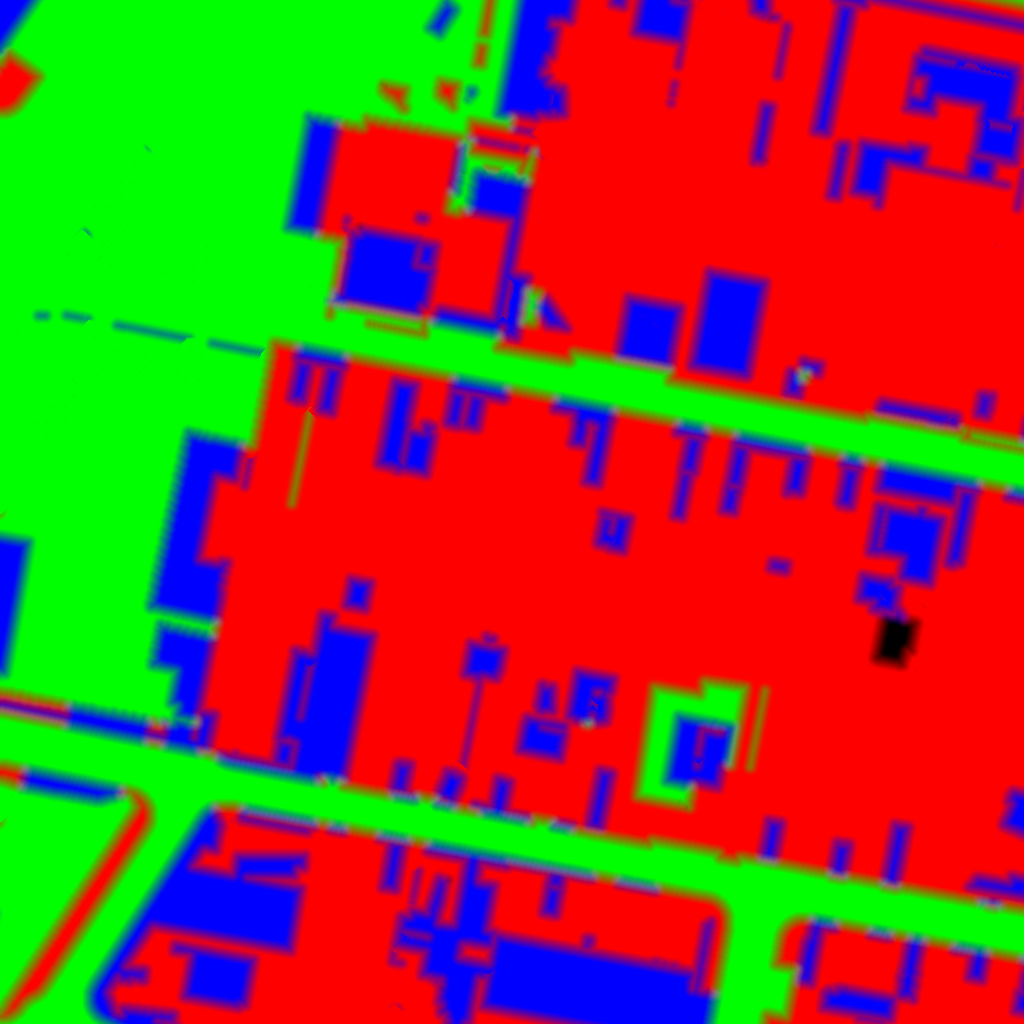
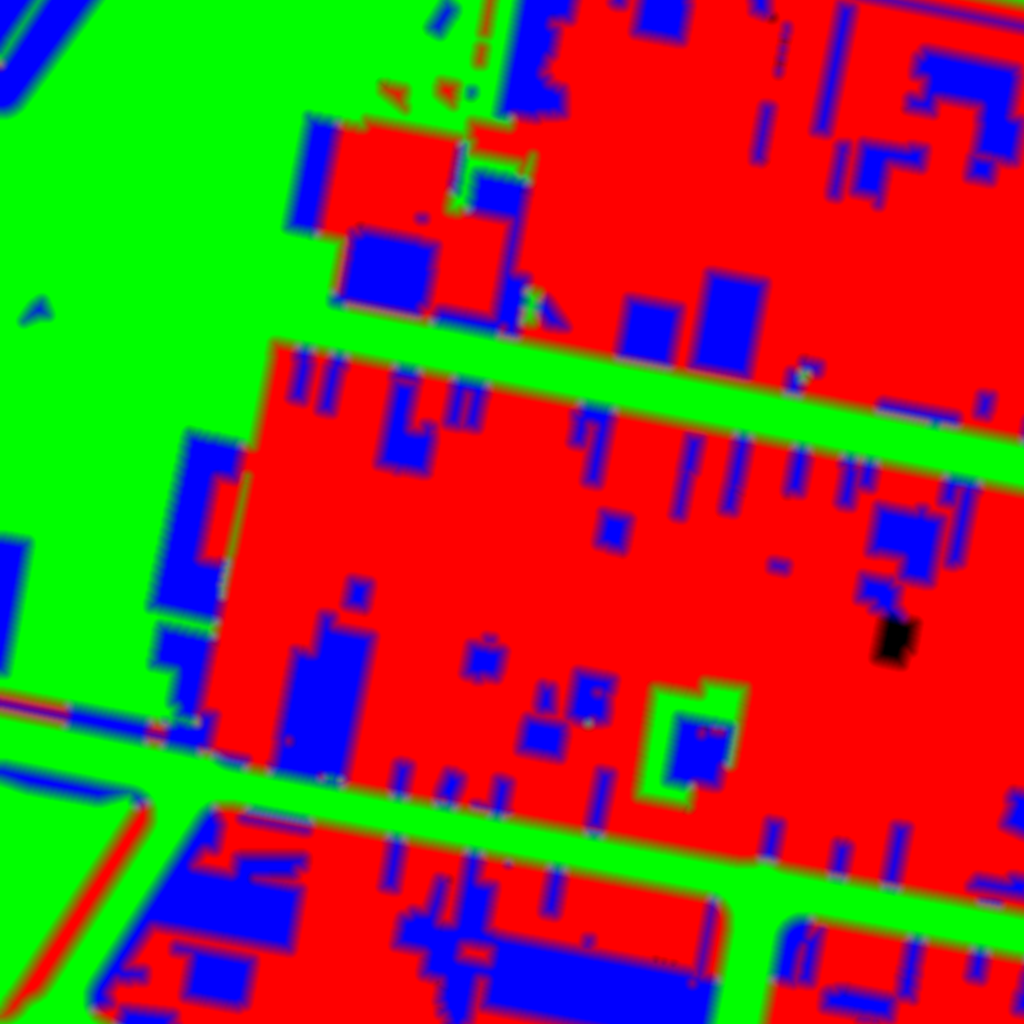
Moorooka shops: straight footpaths that meet at corners, verges laid out from each property's frontage
Ash, 13 November 2026, near the shopping centre: "make paths straight, roads need to make sense. Concrete in the
middle of grass. Path doesn't connect." tools/ground/design2.py redraws the designed square's verges from the street
lines and what is just inside each property (no shapes traced off the photograph): footpaths are the smoothed centre
line moved out to the footpath's distance and carried to the cross street's kerb; crossovers, car park entries and
paved shopfronts are straight strips; car parks are one asphalt surface.

Claude-Session: https://claude.ai/code/session_01ThNhFVJ52fuLizAWmZ7iAg

diff --git a/tools/ground/design2.py b/tools/ground/design2.py
@@ -1,0 +1,299 @@
+"""Moorooka's designed square (the shops and the streets round them), second pass: straight footpaths and verges laid
+out from the street lines and each property's own frontage, not from shapes traced off the photograph.
+
+  python3 design2.py <work dir from design.py> [--write]
+
+Ash, 13 November 2026, near the shopping centre: "make paths straight, roads need to make sense. Concrete in the middle
+of grass. Path doesn't connect."
+
+1. The plan as the blocks hold it now (0.2 m) is the starting point inside properties.
+2. Verges (street land beside a carriageway) are laid out a metre at a time along each side of each street, from what
+   is just inside the property line opposite (1 m in):
+   - a building there (a shop built to its boundary), a side the street data marks as paved, or a verge already paved in
+     front of something that isn't a house: paved to the property line, in runs of 5 m or more;
+   - concrete there (a driveway): a crossover, straight across from the kerb to the property line, at least 3 m wide;
+   - asphalt there, where the verge itself was already sealed (a car park entry): asphalt across, at least 4 m wide;
+   - anything else: lawn. Short gaps (under 2 m) between two pieces of the same kind are filled.
+3. Footpaths are straight: each street side's footpath is its centre line (smoothed to 0.5 m) moved out to the
+   footpath's distance from the kerb, 1.3 m wide, and carried on past the street's ends until it meets the cross
+   street's kerb, so footpaths meet at corners and reach the kerb at crossings.
+4. Car parks (properties whose open ground is mostly sealed) are one asphalt surface, with concrete kept only within 3 m
+   of their buildings (the walk along the shopfronts) and lawn kept only where it is a tidy bed (a rectangle it fills
+   70% of, square to the property, over 30 m2).
+5. Bare earth under 150 m2 takes the ground round it. The blocks are written whole from the new plan.
+"""
+import json, math, os, sys
+import numpy as np
+from PIL import Image, ImageDraw
+from scipy import ndimage as ndi
+
+W_DIR = sys.argv[1]
+WRITE = '--write' in sys.argv
+TOWN = '/home/claude/awesome-news/town3d/moorooka'
+SURF = TOWN + '/surface'
+t = json.load(open(TOWN + '/town.json'))
+meta = t['meta']
+TX, TZ = meta['size'][0] / 16, meta['size'][1] / 16
+X0, Z0 = -meta['size'][0] / 2 + 4 * TX, -meta['size'][1] / 2 + 4 * TZ
+N = 4096
+MPP = TX * 4 / N
+A = MPP * MPP
+LAWN, ASPH, CONC = 1, 2, 3
+log = {}
+
+
+def px(x, z):
+    return ((x - X0) / MPP, (z - Z0) / MPP)
+
+
+# ---- 1. the plan now
+K0 = np.zeros((N, N), np.uint8)
+for r in range(4, 8):
+    for c in range(4, 8):
+        a = np.asarray(Image.open(f'{SURF}/{r}_{c}.webp').convert('RGB')).astype(np.int16)
+        K0[(r - 4) * 1024:(r - 3) * 1024, (c - 4) * 1024:(c - 3) * 1024] = np.where(a.max(-1) > 128, a.argmax(-1) + 1, 0)
+K = K0.copy()
+lots = np.load(W_DIR + '/lots.npy'); roof = np.load(W_DIR + '/roof.npy')
+street = lots == 0
+
+roads = []
+for idx, r in enumerate(t['roads']):
+    p = np.array(r[5], float).reshape(-1, 2) / 10
+    if len(p) >= 2:
+        roads.append(dict(i=idx, cls=r[0], flags=r[2], w=r[3] / 10, name=r[4], p=p))
+car_roads = [r for r in roads if r['cls'] <= 3 and not r['flags'] & 1]
+im = Image.new('L', (N, N)); dc = ImageDraw.Draw(im)
+cl_im = Image.new('I', (N, N)); dcl = ImageDraw.Draw(cl_im)
+for r in car_roads:
+    q = [px(*a) for a in r['p']]; wp = r['w'] / MPP
+    dc.line(q, fill=255, width=max(1, int(round(wp))))
+    for a in q:
+        dc.ellipse([a[0] - wp / 2, a[1] - wp / 2, a[0] + wp / 2, a[1] + wp / 2], fill=255)
+    dcl.line(q, fill=r['i'] + 1, width=1)
+C = np.array(im) > 0; cl = np.array(cl_im)
+lane_im = Image.new('L', (N, N)); dln = ImageDraw.Draw(lane_im)
+for r in roads:
+    if r['cls'] >= 4:
+        dln.line([px(*a) for a in r['p']], fill=255, width=max(1, int(round((r['w'] + 0.4) / MPP))))
+lanes = np.array(lane_im) > 0
+del im, cl_im, lane_im
+R_CORNER = 5.0
+d1 = ndi.distance_transform_edt(~C) * MPP
+closed = ndi.distance_transform_edt(d1 <= R_CORNER) * MPP > R_CORNER
+Cf = C | (closed & street & ~roof)
+del d1, closed
+K[Cf] = ASPH
+
+# ---- 2. verges, from the property opposite
+dk = ndi.distance_transform_edt(~Cf) * MPP
+V = street & ~Cf & ~roof & ~lanes & (dk <= 14)
+_, (iy, ix) = ndi.distance_transform_edt(cl == 0, return_indices=True)
+rid = cl[iy, ix] - 1
+del iy, ix
+dl_, (ly, lx) = ndi.distance_transform_edt(street, return_indices=True)  # the nearest property pixel
+vy, vx = np.nonzero(V)
+vr = rid[vy, vx]
+# 1 m into the property, straight on from the verge
+ny, nx = ly[vy, vx].astype(np.float64), lx[vy, vx].astype(np.float64)
+dy, dx = ny - vy, nx - vx; L = np.maximum(np.hypot(dy, dx), 1e-6)
+sy = np.clip(np.round(ny + dy / L * (1.0 / MPP)), 0, N - 1).astype(int); sx = np.clip(np.round(nx + dx / L * (1.0 / MPP)), 0, N - 1).astype(int)
+far = dl_[vy, vx] * MPP > 14  # no property near
+opp_k = K0[sy, sx]; opp_roof = roof[sy, sx] | roof[ny.astype(int), nx.astype(int)]
+del ly, lx, dl_
+# along-street position and side
+s_of = np.zeros(len(vy), np.float32); side = np.zeros(len(vy), np.int8)
+for r in car_roads:
+    sel = np.flatnonzero(vr == r['i'])
+    if not len(sel):
+        continue
+    Pp = np.array([px(*a) for a in r['p']]); seg = np.diff(Pp, axis=0); Ls = np.hypot(*seg.T); cum = np.concatenate([[0], np.cumsum(Ls)])
+    Q = np.stack([vx[sel], vy[sel]], 1).astype(np.float64)
+    best = np.full(len(sel), np.inf); bs = np.zeros(len(sel)); bside = np.zeros(len(sel), np.int8)
+    for kk in range(len(seg)):
+        if Ls[kk] == 0:
+            continue
+        u = np.clip(((Q - Pp[kk]) @ seg[kk]) / Ls[kk] ** 2, 0, 1); cc = Pp[kk] + u[:, None] * seg[kk]; ddd = np.hypot(*(Q - cc).T)
+        m = ddd < best; best[m] = ddd[m]; bs[m] = cum[kk] + u[m] * Ls[kk]
+        bside[m] = np.sign(seg[kk][0] * (Q[m, 1] - Pp[kk][1]) - seg[kk][1] * (Q[m, 0] - Pp[kk][0]))
+    s_of[sel] = bs * MPP; side[sel] = bside
+kv = K0[vy, vx]
+
+
+def runs(x):
+    out, i0 = [], 0
+    while i0 < len(x):
+        j0 = i0
+        while j0 < len(x) and x[j0] == x[i0]:
+            j0 += 1
+        out.append((i0, j0, x[i0])); i0 = j0
+    return out
+
+
+fp = t['footpaths']
+verge_kind = np.full(len(vy), LAWN, np.uint8)
+stats = dict(paved=0, crossover=0, entry=0)
+key = vr.astype(np.int64) * 4 + (side > 0) * 2
+for kk_ in np.unique(key):
+    sel = np.flatnonzero(key == kk_)
+    b = np.floor(s_of[sel]).astype(int); lo = b.min(); nb = b.max() - lo + 1; bi = b - lo
+    ok = ~far[sel]
+    tot = np.bincount(bi, weights=ok, minlength=nb)
+    share = lambda m: np.bincount(bi, weights=ok & m, minlength=nb) / np.maximum(tot, 1)
+    roof_s = share(opp_roof[sel]); conc_s = share((opp_k[sel] == CONC) & ~opp_roof[sel]); asph_s = share((opp_k[sel] == ASPH) & ~opp_roof[sel])
+    vtot = np.bincount(bi, minlength=nb); v_asph = np.bincount(bi, weights=kv[sel] == ASPH, minlength=nb) / np.maximum(vtot, 1)
+    v_conc = np.bincount(bi, weights=kv[sel] == CONC, minlength=nb) / np.maximum(vtot, 1)
+    lawn_s = share((opp_k[sel] == LAWN) & ~opp_roof[sel])
+    cls = np.zeros(nb, np.int8)  # 0 lawn, 1 crossover, 2 entry, 3 paved
+    cls[(tot > 0) & (roof_s >= 0.5)] = 3
+    cls[(v_conc >= 0.6) & (lawn_s < 0.5)] = 3  # already paved in front of a shop, works or car park: stays paved
+    ri, right = int(kk_ // 4), bool((kk_ // 2) % 2)
+    fv = fp.get(str(ri))
+    if fv is not None and fv[0 if right else 1] < 0:
+        cls[:] = 3  # the street data says this side is paved to the property line (shopfronts)
+    cls[(cls == 0) & (tot > 0) & (conc_s >= 0.5)] = 1
+    cls[(cls == 0) & (tot > 0) & (asph_s >= 0.5) & (v_asph >= 0.5)] = 2
+    for i0, j0, v in runs(list(cls)):
+        if v == 0 and i0 > 0 and j0 < nb and j0 - i0 < 2 and cls[i0 - 1] == cls[j0]:
+            cls[i0:j0] = cls[i0 - 1]
+    for i0, j0, v in runs(list(cls)):
+        n_ = j0 - i0
+        if (v == 3 and n_ < 5) or (v == 2 and n_ < 4) or (v == 1 and n_ < 2.5):
+            cls[i0:j0] = 1 if (v == 3 and n_ >= 2.5) else 0
+    for i0, j0, v in runs(list(cls)):
+        if v == 1 and j0 - i0 < 3:
+            a0 = i0 - 1 if i0 > 0 and cls[i0 - 1] == 0 else i0
+            cls[a0:min(nb, a0 + 3)] = np.where(cls[a0:min(nb, a0 + 3)] == 0, 1, cls[a0:min(nb, a0 + 3)])
+    for i0, j0, v in runs(list(cls)):
+        if v:
+            stats[{1: 'crossover', 2: 'entry', 3: 'paved'}[int(v)]] += 1
+    verge_kind[sel] = np.array([LAWN, CONC, ASPH, CONC], np.uint8)[cls[bi]]
+log['verge pieces'] = stats
+K[vy, vx] = verge_kind
+
+# ---- 3. straight footpaths
+fp = t['footpaths']
+
+
+def simplify(P, tol):
+    if len(P) < 3:
+        return P
+    a, b = P[0], P[-1]; ab = b - a; L_ = np.hypot(*ab) or 1e-9
+    d = np.abs(ab[0] * (P[:, 1] - a[1]) - ab[1] * (P[:, 0] - a[0])) / L_
+    i = int(d.argmax())
+    if d[i] <= tol:
+        return np.array([a, b])
+    return np.vstack([simplify(P[:i + 1], tol)[:-1], simplify(P[i:], tol)])
+
+
+def offset(P, dist):
+    seg = np.diff(P, axis=0); Ls = np.hypot(*seg.T)[:, None]; u = seg / np.maximum(Ls, 1e-9)
+    nrm = np.stack([-u[:, 1], u[:, 0]], 1)
+    out = [P[0] + nrm[0] * dist]
+    for k in range(1, len(P) - 1):
+        m = nrm[k - 1] + nrm[k]; mm = np.hypot(*m)
+        if mm < 1e-6:
+            out.append(P[k] + nrm[k] * dist); continue
+        m /= mm; cosv = max(0.5, float(m @ nrm[k]))
+        out.append(P[k] + m * dist / cosv)
+    out.append(P[-1] + nrm[-1] * dist)
+    return np.array(out)
+
+
+core = Image.new('1', (N, N)); dcore = ImageDraw.Draw(core)
+ext = Image.new('1', (N, N)); dext = ImageDraw.Draw(ext)
+WPX = 1.3 / MPP
+n_sides = 0
+for r in car_roads:
+    f = fp.get(str(r['i']))
+    for right in (True, False):
+        if f is not None:
+            v = f[0 if right else 1]; o = v / 10 if v > 0 else 0
+        else:
+            o = 2.3 if r['cls'] <= 2 else 0
+        if o <= 0:
+            continue
+        P = simplify(r['p'], 0.5)
+        if np.hypot(*(P[-1] - P[0])) < 1:
+            continue
+        sgn = 1 if right else -1  # right of the street's direction: x east, z south, so (-dz, dx)
+        line = offset(P, sgn * (r['w'] / 2 + o))
+        q = [px(*a) for a in line]
+        xs = [a for a, b in q]; ys = [b for a, b in q]
+        if max(xs) < -100 or min(xs) > N + 100 or max(ys) < -100 or min(ys) > N + 100:
+            continue
+        n_sides += 1
+        dcore.line(q, fill=1, width=int(round(WPX)))
+        for a in q:
+            dcore.ellipse([a[0] - WPX / 2, a[1] - WPX / 2, a[0] + WPX / 2, a[1] + WPX / 2], fill=1)
+        for end, nxt in ((line[0], line[1]), (line[-1], line[-2])):
+            dvec = end - nxt; dvec /= max(np.hypot(*dvec), 1e-9)
+            e2 = end + dvec * 25
+            dext.line([px(*end), px(*e2)], fill=1, width=int(round(WPX)))
+core = np.array(core); ext = np.array(ext)
+ok_ground = street & ~Cf & ~roof & ~lanes
+lab, n = ndi.label((core | ext) & ok_ground)
+keep = np.zeros(n + 1, bool); keep[np.unique(lab[core & ok_ground])] = True; keep[0] = False
+Pm = keep[lab]
+log['footpath sides'] = n_sides; log['footpath m2'] = round(float(Pm.sum() * A)); log['carried past ends m2'] = round(float((Pm & ~core).sum() * A))
+K[Pm] = CONC
+
+# ---- 4. car parks
+inlot = (lots > 0) & ~roof
+nl = np.bincount(lots[inlot], minlength=lots.max() + 1)
+ns = np.bincount(lots[inlot & ((K0 == ASPH) | (K0 == CONC))], minlength=lots.max() + 1)
+na = np.bincount(lots[inlot & (K0 == ASPH)], minlength=lots.max() + 1)
+park = (nl * A >= 300) & (ns >= 0.5 * nl) & (na >= 0.3 * nl); park[0] = False
+P_ = park[lots] & ~roof
+near_bld = ndi.distance_transform_edt(~roof) * MPP <= 3.0
+newk = np.where(near_bld & (K0 == CONC), CONC, ASPH).astype(np.uint8)
+# tidy lawn beds
+lb, nn = ndi.label(P_ & (K0 == LAWN))
+beds = 0
+lot_box = ndi.find_objects(lots)
+for ci, sl in enumerate(ndi.find_objects(lb), 1):
+    if sl is None:
+        continue
+    piece = lb[sl] == ci; area = piece.sum() * A
+    if area < 30:
+        continue
+    lot_id = int(np.bincount(lots[sl][piece]).argmax()); lsl = lot_box[lot_id - 1]
+    yy_, xx_ = np.nonzero(lots[lsl] == lot_id)
+    qq = np.stack([xx_, yy_], 1).astype(float); qq -= qq.mean(0)
+    ev = np.linalg.eigh(np.cov(qq.T))[1]
+    ys, xs = np.nonzero(piece); pts = np.stack([xs, ys], 1).astype(float); mu = pts.mean(0)
+    u = (pts - mu) @ ev[:, 1]; v = (pts - mu) @ ev[:, 0]
+    u0, u1 = np.percentile(u, [2, 98]); v0, v1 = np.percentile(v, [2, 98])
+    if area / max((u1 - u0 + 1) * (v1 - v0 + 1) * A, 1e-9) < 0.7:
+        continue
+    yy, xx = np.mgrid[0:piece.shape[0], 0:piece.shape[1]]
+    U = (np.stack([xx, yy], -1) - mu) @ ev[:, 1]; Vv = (np.stack([xx, yy], -1) - mu) @ ev[:, 0]
+    rect = (U >= u0) & (U <= u1) & (Vv >= v0) & (Vv <= v1) & (lots[sl] == lot_id) & ~roof[sl]
+    newk[sl][rect] = LAWN; beds += 1
+K[P_] = newk[P_]
+log['car parks'] = int(park.sum()); log['lawn beds kept'] = beds
+
+# ---- 5. bare earth, and the blocks
+m0 = (K == 0) & ~roof
+lab0, n0 = ndi.label(m0)
+if n0:
+    sz = np.bincount(lab0.ravel()) * A; small = sz < 150; small[0] = False; sm = small[lab0]
+    src = np.where(sm | roof, 0, K)
+    _, (jy, jx) = ndi.distance_transform_edt(src == 0, return_indices=True)
+    K[sm] = src[jy[sm], jx[sm]]
+np.save(W_DIR + '/K2.npy', K); np.save(W_DIR + '/K2_before.npy', K0)
+log['changed m2 (outside buildings)'] = round(float(((K != K0) & ~roof).sum() * A))
+if WRITE:
+    F = np.zeros((N, N, 3), np.float32)
+    for ch, kind_ in enumerate((LAWN, ASPH, CONC)):
+        m = K == kind_
+        d = np.where(m, (ndi.distance_transform_edt(m) - 0.5) * MPP, -(ndi.distance_transform_edt(~m) - 0.5) * MPP).astype(np.float32)
+        F[..., ch] = ndi.gaussian_filter(d, 0.8)
+    dec = np.where(F.max(-1) > 0, F.argmax(-1) + 1, 0)
+    log['decoded matches plan'] = round(float((dec == K)[K > 0].mean()), 4)
+    size = 0
+    for r in range(4, 8):
+        for c in range(4, 8):
+            out = np.clip(np.round(128 + F[(r - 4) * 1024:(r - 3) * 1024, (c - 4) * 1024:(c - 3) * 1024] * 80), 0, 255).astype(np.uint8)
+            fn = f'{SURF}/{r}_{c}.webp'; Image.fromarray(out).save(fn, lossless=True, method=6); size += os.path.getsize(fn)
+    log['blocks MB'] = round(size / 1e6, 2)
+print(json.dumps(log, indent=1))
